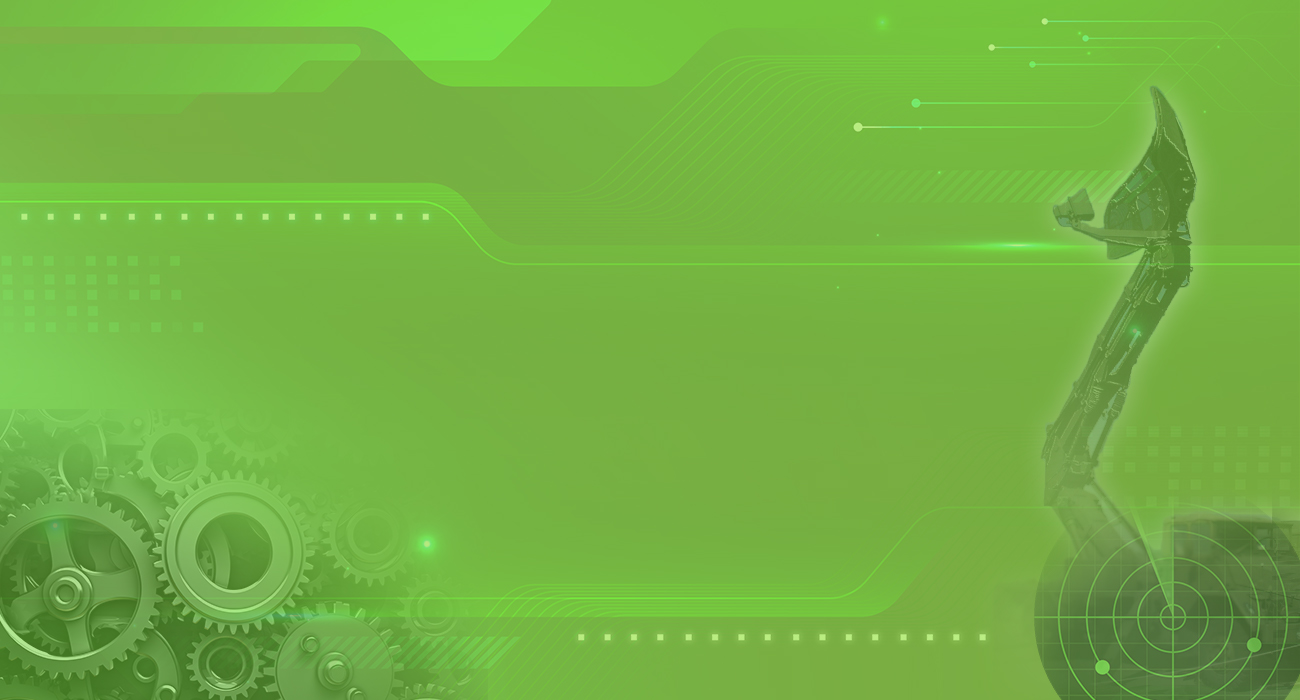
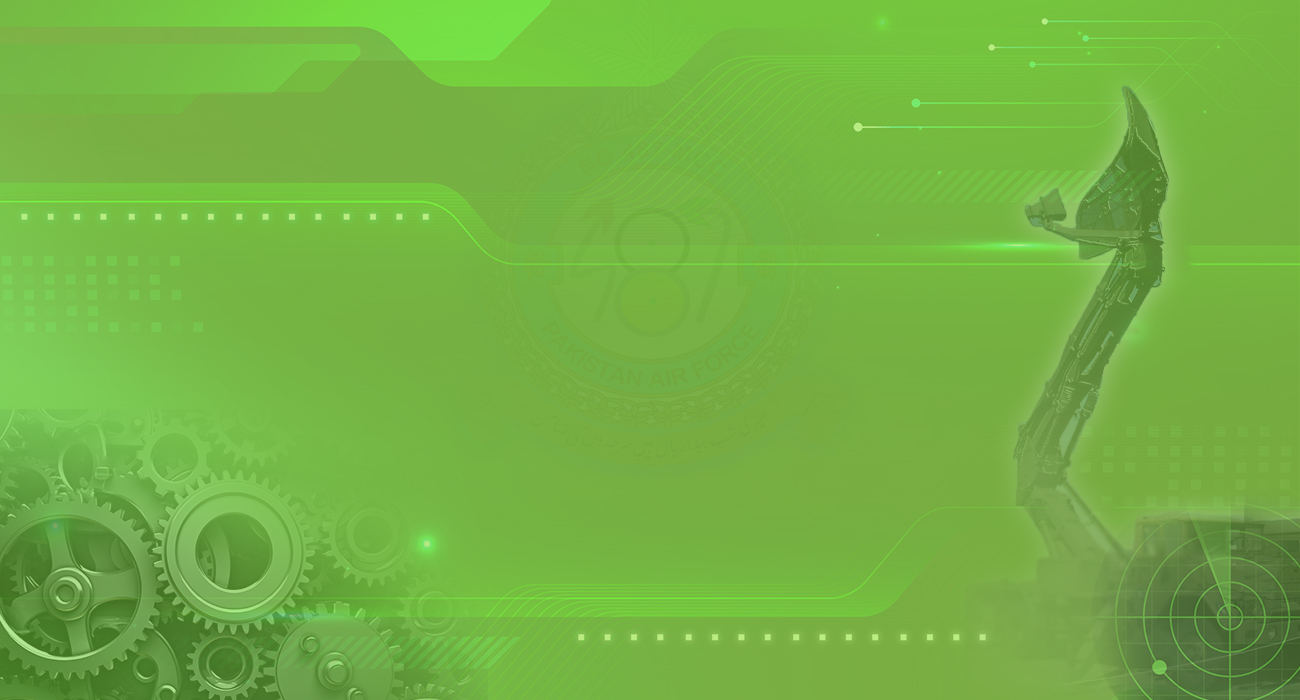
modified bg and title

Changed region(s): [[0.8, 0.75, 1.0, 1.0], [0.7692, 0.12, 0.9231, 0.66]]

diff --git a/Main_app.py b/Main_app.py
@@ -1499,7 +1499,7 @@ class MainMenuWindow(QtWidgets.QMainWindow):
         pixmap3 = QPixmap(title_path)        
         title_label.setPixmap(pixmap3)                 
         title_label.setScaledContents(True)           # scale pixmap to label’s size 
-        title_label.setFixedSize(400, 150)            # display dimensions
+        title_label.setFixedSize(450, 210)            # display dimensions
         title_label.setAlignment(Qt.AlignmentFlag.AlignCenter)  
         Upper_layout.insertWidget(0, title_label) 
 
